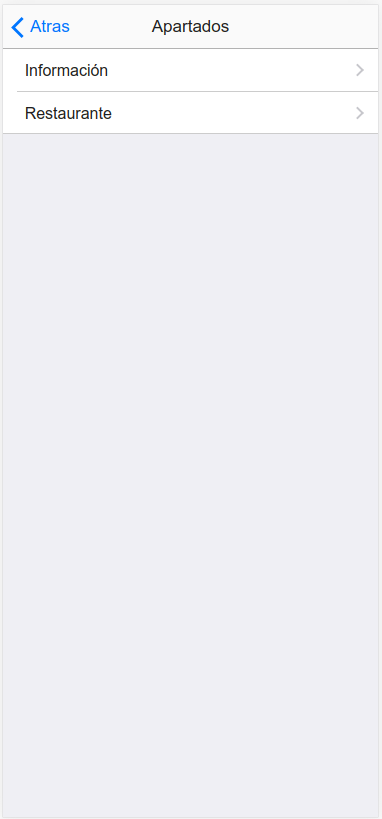
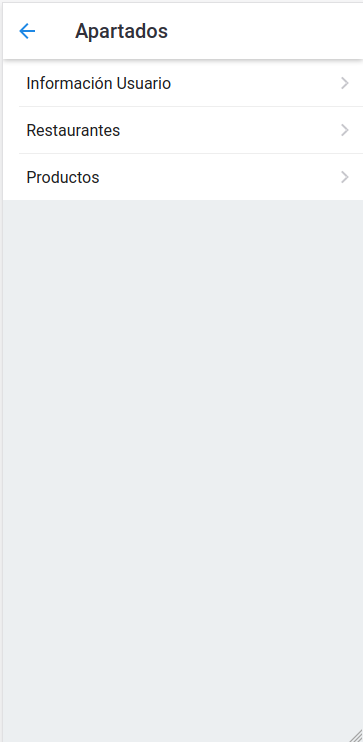
Add doc Spring2

diff --git a/ui/html/restaurant.html b/ui/html/restaurant.html
@@ -1,0 +1,49 @@
+<ons-page>
+    <ons-toolbar>
+      <div class="left">
+        <ons-back-button>Back</ons-back-button>
+      </div>
+      <div class="center">Restaurant</div>
+    </ons-toolbar>
+  
+    <div class="formarea">
+      <div class="form-row">
+        <input id="name" type="text" class="text-input--underbar width-full" placeholder="Name">
+      </div>
+      <div class="form-row">
+        <input id="fiscalId" type="text" class="text-input--underbar width-full" placeholder="FiscalId">
+      </div>
+      <div class="form-row">
+        <input id="email" type="text" class="text-input--underbar width-full" placeholder="Email">
+      </div>
+      <div class="form-row">
+        <input id="street1" type="text" class="text-input--underbar width-full" placeholder="Street 1">
+      </div>
+      <div class="form-row">
+        <input id="street2" type="text" class="text-input--underbar width-full" placeholder="street 2">
+      </div>
+      <div class="form-row">
+        <input id="city" type="text" class="text-input--underbar width-full" placeholder="City">
+      </div>
+      <div class="form-row">
+        <input id="zipcode" type="text" class="text-input--underbar width-full" placeholder="Zipcode">
+      </div>
+      <div class="form-row">
+        <input id="state" type="text" class="text-input--underbar width-full" placeholder="State">
+      </div>
+      <div class="form-row">
+        <input id="country" type="text" class="text-input--underbar width-full" placeholder="Country">
+      </div>
+      <div class="form-row">
+        <input id="phoneprefix" type="text" class="text-input--underbar width-full" placeholder="Phone Prefix">
+      </div>
+      <div class="form-row">
+        <input id="phone" type="text" class="text-input--underbar width-full" placeholder="Phone">
+      </div>
+  
+      <div class="vspc form-row">
+        <ons-button modifier="large--cta" onclick="createRestaurant()">Registrarse</ons-button>
+      </div>
+    </div>
+  
+  </ons-page>

diff --git a/ui/html/product.html b/ui/html/product.html
@@ -1,0 +1,34 @@
+<ons-page>
+    <ons-toolbar>
+      <div class="left">
+        <ons-back-button>Back</ons-back-button>
+      </div>
+      <div class="center">Product</div>
+    </ons-toolbar>
+  
+    <div class="formarea">
+      <div class="form-row">
+        <input id="name" type="text" class="text-input--underbar width-full" placeholder="Name">
+      </div>
+      <div class="form-row">
+        <input id="retailprice" type="text" class="text-input--underbar width-full" placeholder="Retail Price">
+      </div>
+      <div class="form-row">
+        <input id="price" type="text" class="text-input--underbar width-full" placeholder="Price">
+      </div>
+      <div class="form-row">
+        <input id="description" type="text" class="text-input--underbar width-full" placeholder="Description">
+      </div>
+      <div class="form-row">
+        <input id="photolink" type="text" class="text-input--underbar width-full" placeholder="Photo Link">
+      </div>
+      <div class="form-row">
+        <input id="restaurant" type="text" class="text-input--underbar width-full" placeholder="Restaurant">
+      </div>
+      
+      <div class="vspc form-row">
+        <ons-button modifier="large--cta" onclick="createRestaurant()">Añadir</ons-button>
+      </div>
+    </div>
+  
+  </ons-page>

diff --git a/ui/static/js/app.js b/ui/static/js/app.js
@@ -4,6 +4,7 @@ const localStorage = {
   password : undefined,
   user:  undefined
 }
+var server = 'http://localhost:8080'
 
 const loadPage = (page) => {
   document.querySelector('#navigator').bringPageTop(page, { animation: 'fade' });
@@ -13,7 +14,7 @@ const loadPage = (page) => {
 const getUserInfoCall = () => {
   $.ajax({
     type: 'GET',
-    url: 'http://localhost:8082/customers/me',
+    url: server + '/customers/me',
     contentType: 'application/json',
     beforeSend: function (xhr) {   //Include the bearer token in header
       xhr.setRequestHeader("Authorization", 'Bearer '+ localStorage.token);
@@ -30,7 +31,7 @@ const getUserInfoCall = () => {
 const getAuthTokenCall = (username, password) => {
   $.ajax({
     type: 'POST',
-    url: 'http://localhost:8082/login',
+    url: server + '/login',
     data: JSON.stringify({ username: username, password: password }),
     contentType: 'application/json'
   }).done((data) => {
@@ -49,7 +50,7 @@ const getAuthTokenCall = (username, password) => {
 const createUserCall = (user) => {
   $.ajax({
     type: 'POST',
-    url: 'http://localhost:8082/customers',
+    url: server + '/customers',
     data: JSON.stringify(user),
     contentType: 'application/json'
   }).done((data) => {

diff --git a/ui/html/home.html b/ui/html/home.html
@@ -1,4 +1,4 @@
-<ons-page id="home">
+<ons-page id="restaurant">
     <ons-toolbar>
         <div class="left">
             <ons-back-button>Atras</ons-back-button>
@@ -7,10 +7,13 @@
     </ons-toolbar>
     <ons-list id="opt-list">
         <ons-list-item class="menu_item" modifier="chevron" tappable onclick="loadPage('html/user-update.html')">
-            <ons-icon icon="md-information"></ons-icon>&ThinSpace; Información
+            <ons-icon icon="md-information"></ons-icon>&ThinSpace; Información Usuario
         </ons-list-item>
-        <ons-list-item class="menu_item" modifier="chevron" tappable onclick="loadPage('html/restaurant.html')">
-            <ons-icon icon="md-restaurant"></ons-icon>&ThinSpace; Restaurante
+        <ons-list-item class="menu_item" modifier="chevron" tappable onclick="loadPage('html/restaurants.html')">
+            <ons-icon icon="md-information"></ons-icon>&ThinSpace; Restaurantes
+        </ons-list-item>
+        <ons-list-item class="menu_item" modifier="chevron" tappable onclick="loadPage('html/products.html')">
+            <ons-icon icon="md-information"></ons-icon>&ThinSpace; Productos
         </ons-list-item>
     </ons-list>
 </ons-page>

diff --git a/ui/html/restaurants.html b/ui/html/restaurants.html
@@ -1,0 +1,20 @@
+<ons-page id="restaurants">
+    <ons-toolbar>
+        <div class="left">
+            <ons-back-button>Atras</ons-back-button>
+        </div>
+        <div class="center">Restaurants</div>
+    </ons-toolbar>
+    <ons-list id="opt-list">
+        <ons-list-item class="menu_item" modifier="chevron" tappable onclick="loadPage('html/restaurant.html')">
+            <ons-icon icon="md-restaurant"></ons-icon>&ThinSpace; Don Pollo
+        </ons-list-item>
+    </ons-list>
+    <div style="height:10%; width: 100%; position:absolute; bottom: 30px;">
+           <p style="text-align: right">
+            <ons-fab>
+                <ons-icon icon="md-plus"></ons-icon>
+            </ons-fab>
+        </p>
+    </div>
+</ons-page>

diff --git a/ui/html/products.html b/ui/html/products.html
@@ -1,0 +1,20 @@
+<ons-page id="products">
+    <ons-toolbar>
+        <div class="left">
+            <ons-back-button>Atras</ons-back-button>
+        </div>
+        <div class="center">Products</div>
+    </ons-toolbar>
+    <ons-list id="opt-list">
+        <ons-list-item class="menu_item" modifier="chevron" tappable onclick="loadPage('html/product.html')">
+            <ons-icon icon="md-information-circle"></ons-icon>&ThinSpace; Cafe
+        </ons-list-item>
+    </ons-list>
+    <div style="height:10%; width: 100%; position:absolute; bottom: 30px;">
+           <p style="text-align: right">
+            <ons-fab>
+                <ons-icon icon="md-plus"></ons-icon>
+            </ons-fab>
+        </p>
+    </div>
+</ons-page>

diff --git a/SPRING_2.md b/SPRING_2.md
@@ -1,0 +1,69 @@
+# Spring 2
+
+## User histories
+
+- US_OO04: Como administrador del sistema quiero poder forzar el cambio de credencial de acceso de un usuario para garantizar la seguridad de su acceso.
+- US_0006: Como propietario de un negocio quiero poder dar de alta mi negocio dentro del sistema para poder ofrecer mis productos.
+- US_0005: Como cliente quiero poder cursar la baja en el mismo para ejercitar mi derecho a desistimiento.
+- US_0007: Como propietario de un negocio quiero poder dar de alta una carta de productos en mi negocio para que sean seleccionados por los clientes.
+
+
+## Diseño de la interfaz
+
+Para los casos de uso anteriormente mencionados se diseña el siguiente flujo de interfaz.
+
+El flujo comprende las acciones necesarias para el alta de negocios y productos.
+
+![Flujo de la interfaz](doc_images/interfaz_spring_2.png)
+
+## Diseño de la api Rest
+
+Se añaden los siguientes endpoints, correspondientemente documentados en swagger, a los del primer spring
+
+![Rest Business](/doc_images/rest_business.png)
+
+![Rest Payment Methods](/doc_images/rest_payment_methods.png)
+
+![Rest Price Ranges](/doc_images/rest_price_ranges.png)
+
+![Rest ProductTags](/doc_images/rest_product_tags.png)
+
+
+## Diseño de la db
+
+Para dar soporte a las acciones anteriormente descritas, se diseña la siguiente base de datos.
+
+Describimos las relaciones antes de mostrar el diagrama general actualizado.
+
+- Customer - Business (Relación 1 a muchos)
+
+![Relación Customer - Address](doc_images/customer_business.png)
+
+- Business - Aggregate Rating y Price Range (Relación Muchos a 1): Ambos son valoraciones de los clientes uno hace referencia a la calidad/precio, típica valoración con estrellas y la otra al rango de precios.
+
+Son tablas maestras con valores fijos.
+
+![Relación Customer - Phone](doc_images/business_ratings.png)
+
+![Detalle aggregate rating](doc_images/rating_data.png)
+
+![Detalle price range](doc_images/price_range_data.png)
+
+- PaymentMethods - Business (Relación muchos a muchos) Al igual que la anterior, también es una tabla maestra.
+
+![Relación Business - PaymentMethod](doc_images/business_payment.png)
+
+- Business - Producto (Relación 1 a muchos)
+
+![Relación Business - Product](doc_images/business_producto.png)
+
+- Producto - Tags (Relación muchos a muchos) Metadata útil para la búsqueda y segmentación de productos.
+
+![Relación Product - Tags](doc_images/product_tags.png)
+
+![Detalle de tags](doc_images/detalle_tags.png)
+
+### Digrama general de base de datos
+
+![Diagrama general de DB](doc_images/diagrama_completo_spring2.png)
+
